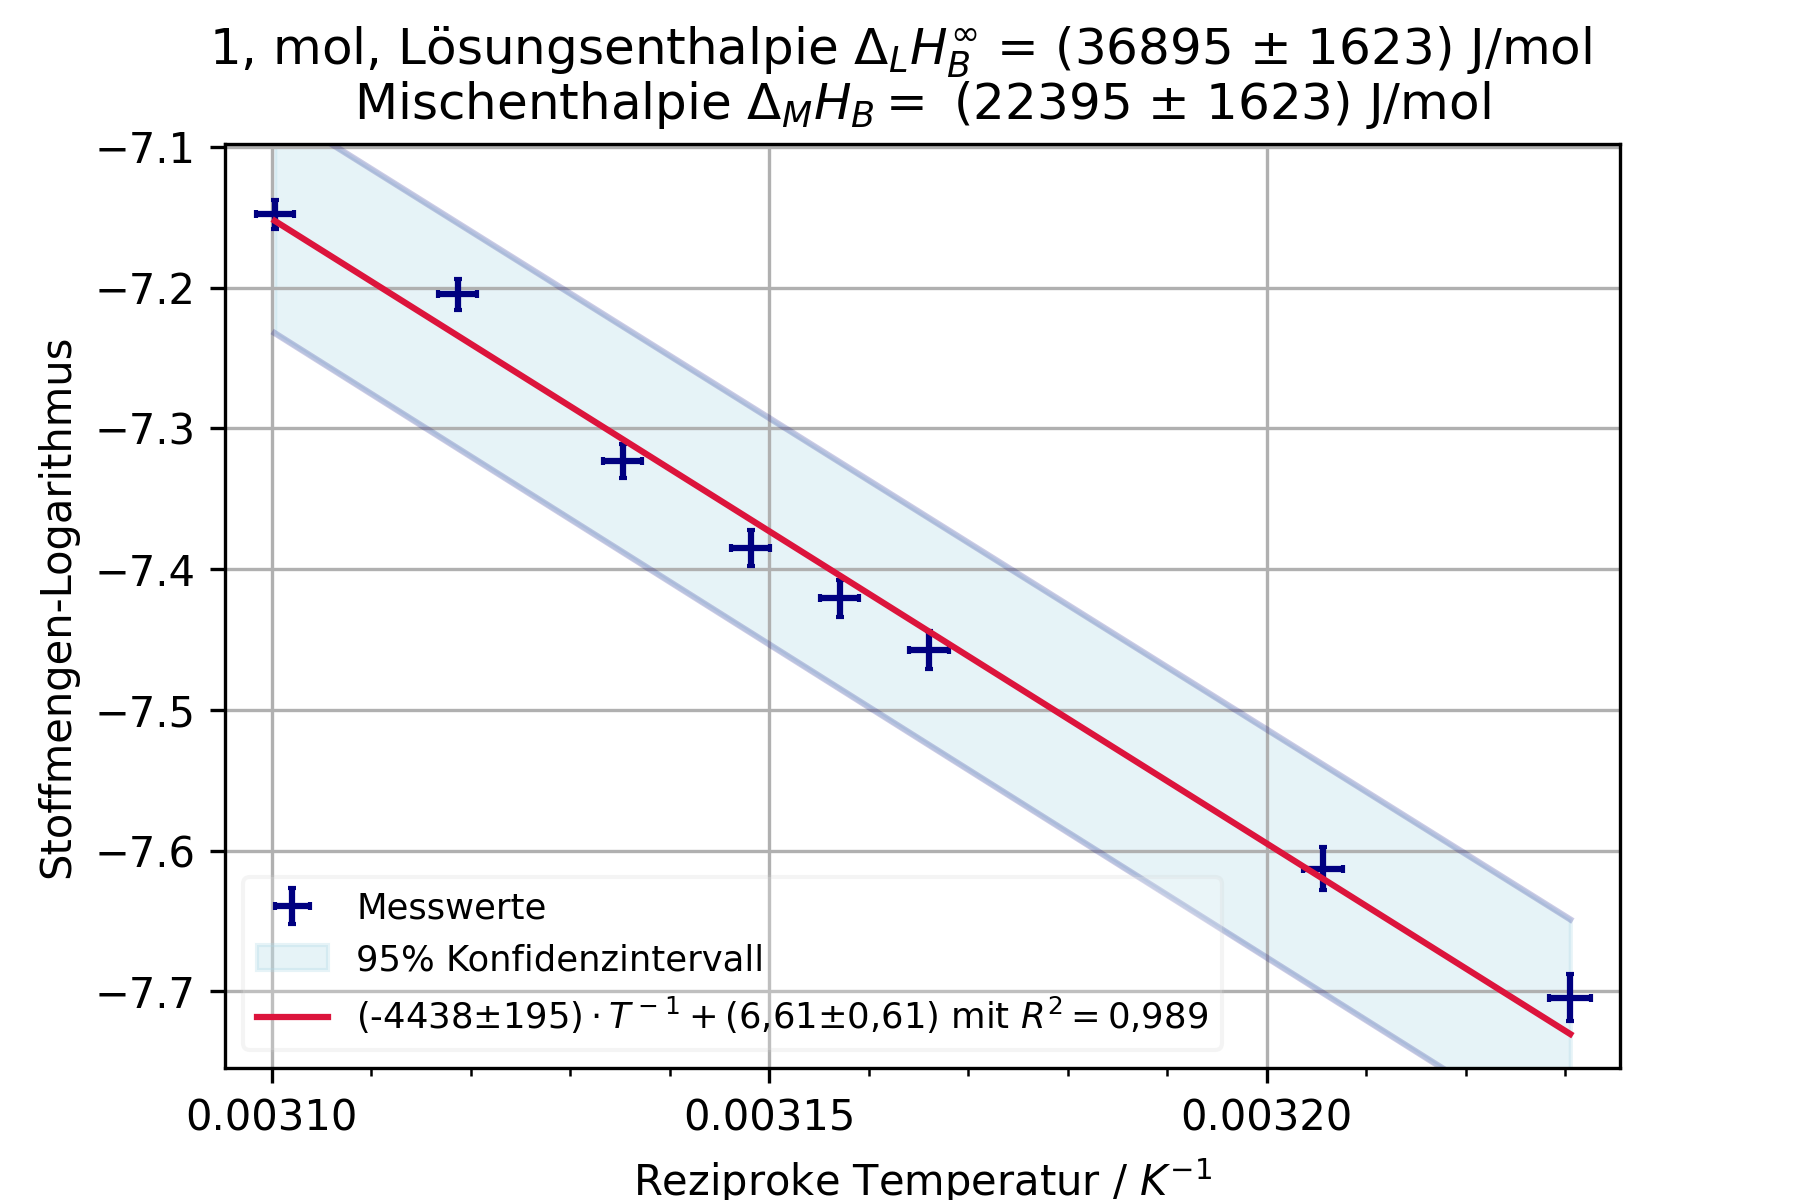
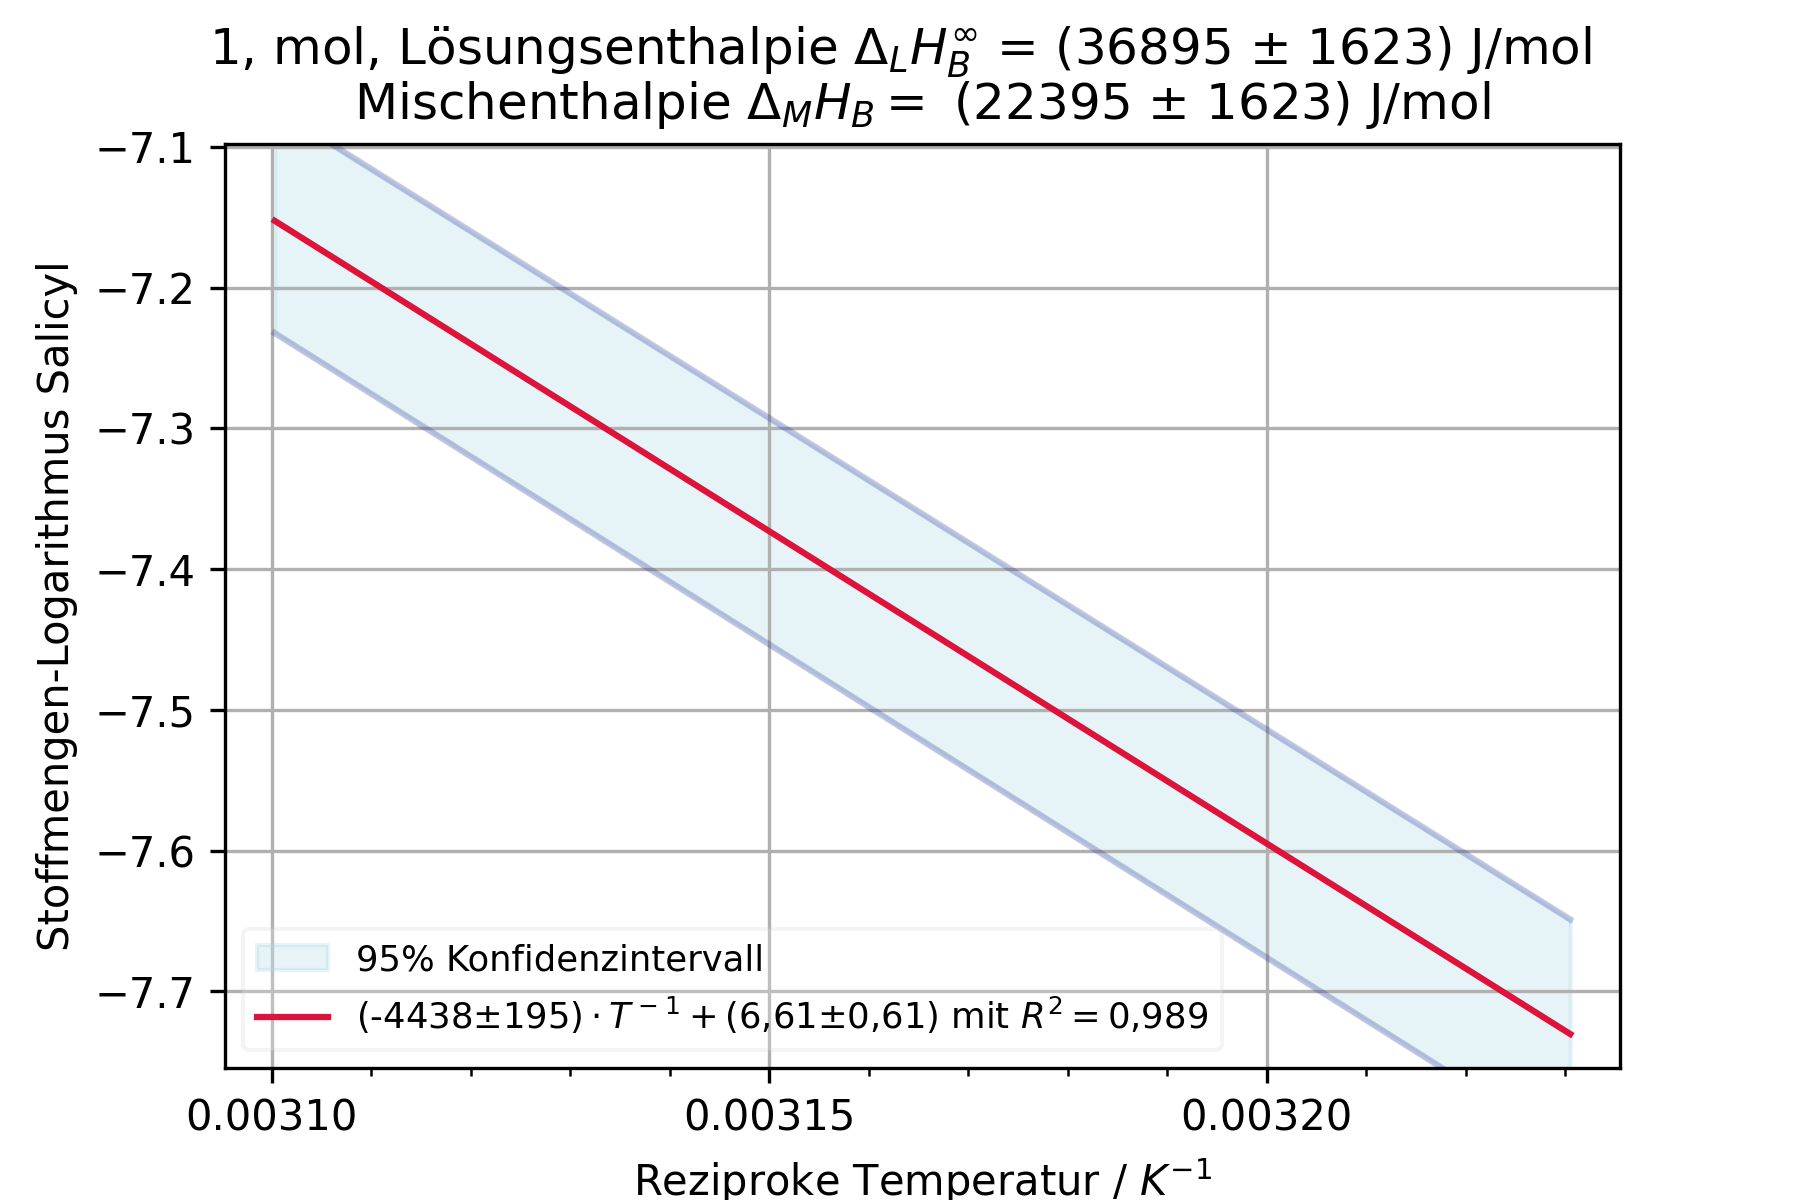
modified:   Daten/Wasser_SS_25.csv 	modified:   "L\303\266sungen.py" 	new file:   PNG/Wasser_SS_25/Wasser A4 Benzoe.png 	new file:   PNG/Wasser_SS_25/Wasser A4 Salicyl.png 	modified:   PNG/Wasser_SS_25/Wasser A5 Benzoe.png 	new file:   PNG/Wasser_SS_25/Wasser B4 Benzoe.png 	modified:   PNG/Wasser_SS

diff --git a/Lösungen.py b/Lösungen.py
@@ -12,13 +12,27 @@ global ax, fig
 fig, ax = plt.subplots()
 fig.set_size_inches(6, 4)
 path = os.path.dirname(os.path.abspath(__file__))
-CTable = ['deeppink', 'purple', 'indigo', 'blue', 'cornflowerblue', 'cadetblue', 'lightseagreen', 'seagreen', 'darkorange', 'coral', 'crimson' ]
+# CTable = ['deeppink', 'purple', 'indigo', 'blue', 'cornflowerblue', 'cadetblue', 'lightseagreen', 'seagreen', 'darkorange', 'coral', 'crimson' ]
 
 
 #Einlesen der Daten und Definition der Gruppen und Stoffe
-Data = pd.read_table(f'{path}\\Daten\\Wasser_SS_25.csv', sep=",", header=0, index_col=0)
-Data_ideal = pd.read_table(f'{path}\\Daten\\Ideal_SS_25.csv', sep=",", header=0, index_col=0)
-Gruppen = ['A1', 'A2', 'A3', 'A4', 'A5','A6', 'A7', 'B1', 'B2', 'B3', 'B4', 'B5','B6']
+Data1 = pd.read_table(f'{path}\\Daten\\Wasser_WS_24-25.csv', sep=",", header=0, index_col=0)
+Data1.index = ['4_' + str(idx) for idx in Data1.index]
+
+Data2 = pd.read_table(f'{path}\\Daten\\Wasser_SS_25.csv', sep=",", header=0, index_col=0)
+Data2.index = ['5_' + str(idx) for idx in Data2.index]
+
+Data = pd.concat([Data1, Data2])
+
+Data_ideal1 = pd.read_table(f'{path}\\Daten\\Ideal_WS_24-25.csv', sep=",", header=0, index_col=0)
+Data_ideal1.index = ['4_' + str(idx) for idx in Data_ideal1.index]
+
+Data_ideal2 = pd.read_table(f'{path}\\Daten\\Ideal_SS_25.csv', sep=",", header=0, index_col=0)
+Data_ideal2.index = ['5_' + str(idx) for idx in Data_ideal2.index]
+
+Data_ideal = pd.concat([Data_ideal1, Data_ideal2])
+
+Gruppen = ['A1', 'A2', 'A3', 'A4', 'A5', 'A6', 'A7', 'B1', 'B2', 'B3', 'B4', 'B5','B6', 'B7']
 Stoffe = ['Benzoe', 'Salicyl']
 
 
@@ -55,7 +69,7 @@ def Fit(x,y,sx,sy):
     
 
 # Plot der Auswertung samt Konfidenzintervall und Regression
-def FitPlot(Rez_T, ln_x_B, Rez_T_Error, ln_x_B_Error, H_mLinf, H_mLinf_Error, Mischenthalpie, Mischenthalpie_Error, Gruppe, Stoff, out, plot=True):
+def FitPlot(Rez_T, ln_x_B, Rez_T_Error, ln_x_B_Error, H_mLinf, H_mLinf_Error, Mischenthalpie, Mischenthalpie_Error, Gruppe, Stoff, out, plot, semester):
     if plot == True:
         ax.errorbar(Rez_T, ln_x_B, xerr=Rez_T_Error, yerr=ln_x_B_Error, color='navy', capsize=1, linestyle='none', label='Messwerte')
     # Konfidenzintervalle berechnen
@@ -76,23 +90,28 @@ def FitPlot(Rez_T, ln_x_B, Rez_T_Error, ln_x_B_Error, H_mLinf, H_mLinf_Error, Mi
     # Plot Parameter
     plt.xlim(min(Rez_T)-0.000005, max(Rez_T)+0.000005)
     plt.ylim(min(ln_x_B)-0.05, max(ln_x_B)+0.05)
-    ax.set(xlabel='Reziproke Temperatur / $ K^{-1}$', ylabel='Stoffmengen-Logarithmus')
+    ax.set(xlabel='Reziproke Temperatur / $ K^{-1}$', ylabel=f'Stoffmengen-Logarithmus {Stoff}')
     fig.suptitle(Replacer(f'1. mol. Lösungsenthalpie $\Delta_LH_B^\infty$ = ({H_mLinf:.0f} $\pm$ {H_mLinf_Error:.0f}) J/mol'), fontsize=12)
     ax.set_title(Replacer(f'Mischenthalpie $\Delta_MH_B =$ ({Mischenthalpie:.0f} $\pm$ {Mischenthalpie_Error:.0f}) J/mol'))
     ax.legend(handles, labels, loc='lower left', framealpha=0.2, fontsize=8.5)
     ax.grid()
     ax.xaxis.set_major_locator(MultipleLocator(0.00005))
     ax.xaxis.set_minor_locator(MultipleLocator(0.00001))
-    fig.savefig(f'{path}\\PNG\\Wasser_SS_25\\Wasser {Gruppe} {Stoff}.png', dpi=300)
+    if semester == '4':
+        fig.savefig(f'{path}\\PNG\\Wasser_WS_24_25\\Wasser {Gruppe} {Stoff}.png', dpi=300)
+    elif semester == '5':
+        fig.savefig(f'{path}\\PNG\\Wasser_SS_25\\Wasser {Gruppe} {Stoff}.png', dpi=300)
+    elif semester == 'Zusammen':
+        fig.savefig(f'{path}\\PNG\\Zusammen_{Stoff}.png', dpi=300)
     plt.cla()
 
 
 # Auswertung der wässrigen Lösungen 
-def Auswertung(Gruppe, Stoff, Print=True):
+def Auswertung(Gruppe, Stoff, Print, semester):
     C = 0.1                                                             # Molarität M = mol/L
     C_Error = 0.005*C                                                   # M
-    T_Data = Data.loc[f'T({Gruppe}_{Stoff[:1]})'].dropna().values+273.15         # K
-    V_Data = Data.loc[f'V({Gruppe}_{Stoff[:1]})'].dropna().values                # mL
+    T_Data = Data.loc[f'{semester}_T({Gruppe}_{Stoff[:1]})'].dropna().values+273.15         # K
+    V_Data = Data.loc[f'{semester}_V({Gruppe}_{Stoff[:1]})'].dropna().values                # mL
     T_Error = np.array([0.2]*len(T_Data))                               # K     (geraten)*
     V_Error = np.array([0.1]*len(V_Data))                               # mL    (gemessen)
     n_B = 1e-4*V_Data                                                   # mol
@@ -127,7 +146,7 @@ def Auswertung(Gruppe, Stoff, Print=True):
         # Ideale Löslichkeit
         x_B_id = np.exp(-18000/8.31446*(1/(T_Data)-1/395.5))
         x_B_id_Error = abs(x_B_id*18000*T_Error/(8.31446*(T_Data)**2))
-    FitPlot(Rez_T, ln_x_B, Rez_T_Error, ln_x_B_Error, H_mLinf, H_mLinf_Error, Mischenthalpie, Mischenthalpie_Error, Gruppe, Stoff, out)
+    FitPlot(Rez_T, ln_x_B, Rez_T_Error, ln_x_B_Error, H_mLinf, H_mLinf_Error, Mischenthalpie, Mischenthalpie_Error, Gruppe, Stoff, out, True, semester)
     if Print == True:
         print()
         print(f'Gruppe: {Gruppe}, Stoff: {Stoff}')
@@ -138,8 +157,7 @@ def Auswertung(Gruppe, Stoff, Print=True):
             print(f'({x_B_id[i]:.4f} \pm {x_B_id_Error[i]:.4f}) bei ({T_Data[i]:.2f} \pm {T_Error[i]:.2f}) K')
         print()
     
-    return [Rez_T, ln_x_B, Rez_T_Error, ln_x_B_Error, H_mLinf, H_mLinf_Error, Mischenthalpie, Mischenthalpie_Error, Gruppe]
-
+    return [Rez_T, ln_x_B, Rez_T_Error, ln_x_B_Error, H_mLinf, H_mLinf_Error, Mischenthalpie, Mischenthalpie_Error, Gruppe, semester]
 
 
 # Ideale Löslichkeit für eine Gruppe 
@@ -189,8 +207,14 @@ def AlleAbfragen(Print = True):
     Benzoe = []
     for i in Gruppen:
         for j in Stoffe:
-            if f'T({i}_{j[:1]})' in Data.index:
-                Output = Auswertung(i, j, Print)
+            if f'4_T({i}_{j[:1]})' in Data.index:
+                Output = Auswertung(i, j, Print, '4')
+                if j == 'Salicyl':
+                    Salicyl.append(Output)
+                elif j == 'Benzoe':
+                    Benzoe.append(Output)
+            if f'5_T({i}_{j[:1]})' in Data.index:
+                Output = Auswertung(i, j, Print, '5')
                 if j == 'Salicyl':
                     Salicyl.append(Output)
                 elif j == 'Benzoe':
@@ -204,7 +228,10 @@ def AlleAbfragen(Print = True):
         elif j == 1:
             Stoff = Benzoe
         for i in range(len(Stoff)):
-            plt.errorbar(Stoff[i][0], Stoff[i][1], xerr=Stoff[i][2], yerr=Stoff[i][3], capsize=1.5, linestyle='none', label=f'{Stoff[i][8]}', color=CTable[i])
+            if f'{Stoff[i][9]}_T({Stoff[i][8]}_{Name[j][:1]})' != '5_T(B4_B)':
+                plt.errorbar(Stoff[i][0], Stoff[i][1], xerr=Stoff[i][2], yerr=Stoff[i][3], capsize=1.5, linestyle='none', color='black')  #CTable[i], , label=f'{Stoff[i][9]}_{Stoff[i][8]}'
+            else:
+                plt.errorbar(Stoff[i][0], Stoff[i][1], xerr=Stoff[i][2], yerr=Stoff[i][3], capsize=1.5, linestyle='none', color='crimson') # , label=f'{Stoff[i][9]}_{Stoff[i][8]}'
         ln_x_B = np.concatenate([Stoff[i][1] for i in range(len(Stoff))])
         ln_x_B_Error = np.concatenate([Stoff[i][3] for i in range(len(Stoff))])
         Rez_T = np.concatenate([Stoff[i][0] for i in range(len(Stoff))])
@@ -217,23 +244,24 @@ def AlleAbfragen(Print = True):
         elif j == 1:
             Mischenthalpie = H_mLinf - 13800
         Mischenthalpie_Error = H_mLinf_Error
-        FitPlot(Rez_T, ln_x_B, Rez_T_Error, ln_x_B_Error, H_mLinf, H_mLinf_Error, Mischenthalpie, Mischenthalpie_Error, 'Zusammen', Name[j], out, False)
+        print(len(Rez_T), Name[j])
+        FitPlot(Rez_T, ln_x_B, Rez_T_Error, ln_x_B_Error, H_mLinf, H_mLinf_Error, Mischenthalpie, Mischenthalpie_Error, 'Zusammen', Name[j], out, True, 'Zusammen')
         
     
 
 # Abfrage für eine Gruppe, Wasser
-def EineAbfrage(Gruppe, Stoff, Print):
-    if f'T({Gruppe}_{Stoff[:1]})' in Data.index:
-        Auswertung(Gruppe, Stoff, Print)
+def EineAbfrage(Gruppe, Stoff, Print, semester):
+    if f'{semester}_T({Gruppe}_{Stoff[:1]})' in Data.index:
+        Auswertung(Gruppe, Stoff, Print, semester)
     else:
         print(f'Keine Daten für Gruppe {Gruppe} und Stoff {Stoff} vorhanden')
         print()
 
 
 # Abfrage für eine Gruppe für beide Stoffe und die ideale Lösung
-def EineGruppe(Gruppe, Print = True):
+def EineGruppe(Gruppe, semester, Print = True):
     for i in Stoffe:
-        EineAbfrage(Gruppe, i, Print)
+        EineAbfrage(Gruppe, i, Print, semester)
     Ideal(Gruppe, Print)
 
 
@@ -243,8 +271,8 @@ def EineGruppe(Gruppe, Print = True):
 # # Mögliche Auswertmethoden:
 
 # EineAbfrage('A5', 'Benzoe', True) # Einzelne Gruppe und einzelner Stoff
-EineGruppe('B5') # Eine Gruppe und beide Stoffe sowie die ideale Lösung
+EineGruppe('B4', '5') # Eine Gruppe und beide Stoffe sowie die ideale Lösung
 # Ideal('A1') # Ideale Lösung für eine Gruppe
 
-# AlleAbfragen()  # Alle Gruppen und Stoffe. Optional Print=True/False für Ausgabe der Ergebnisse
+# AlleAbfragen(False)  # Alle Gruppen und Stoffe. Optional Print=True/False für Ausgabe der Ergebnisse
 
